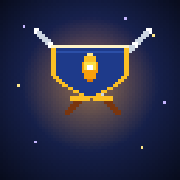
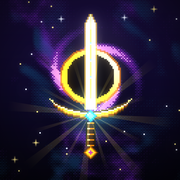
Add files via upload

diff --git a/index.html b/index.html
@@ -11,8 +11,8 @@
   <meta name="apple-mobile-web-app-capable" content="yes" />
   <meta name="apple-mobile-web-app-status-bar-style" content="black-translucent" />
   <meta name="apple-mobile-web-app-title" content="LUMENIA" />
-  <link rel="apple-touch-icon" href="apple-touch-icon.png" />
-  <link rel="icon" type="image/png" sizes="32x32" href="favicon-32.png" />
+  <link rel="apple-touch-icon" href="apple-touch-icon.png?v=2" />
+  <link rel="icon" type="image/png" sizes="32x32" href="favicon-32.png?v=2" />
 
   <!-- Tailwind CSS pour l'interface sombre façon Melvor Idle 2 -->
   <script src="https://cdn.tailwindcss.com"></script>
@@ -17540,8 +17540,12 @@ function wmDraw(ctx, t, opt) {
       const pv = document.getElementById("btn-cr-prev"), nx = document.getElementById("btn-cr-next");
       if (pv) pv.style.visibility = i === 0 ? "hidden" : "visible"; if (nx) nx.classList.toggle("hidden", i === CR_TABS.length - 1);
     }
-    const GAME_VERSION = "1.28";
+    const GAME_VERSION = "1.29";
     const PATCH_NOTES = [
+      { v: "1.29", date: "20/11/2026", titre: "Nouvelle icône", items: [
+        "🗡 Nouvelle icône de l'application : l'Épée de Lumière dressée devant le portail du Néant, en pixel art lumineux.",
+        "📲 Si l'ancienne icône reste affichée sur ton téléphone, désinstalle l'appli puis réinstalle-la depuis le site (ta sauvegarde est conservée)."
+      ] },
       { v: "1.28", date: "20/11/2026", titre: "LUMENIA sur mobile", items: [
         "📲 LUMENIA devient une application mobile : installe-la depuis l'écran titre (« INSTALLER L'APPLI ») ou via « Ajouter à l'écran d'accueil ». Elle se lance en plein écran avec sa propre icône et fonctionne hors ligne.",
         "📱 Interface mobile : nouvelle barre d'onglets en bas (Expédition, Camp, Sac, Héros, Menu), menu complet en tiroir, boutons plus grands, et retour en haut de page à chaque changement d'onglet.",

diff --git a/sw.js b/sw.js
@@ -1,6 +1,6 @@
 /* LUMENIA — service worker : jeu jouable hors ligne, mises à jour automatiques */
-const CACHE = "lumenia-app-v2";
-const CORE = ["./", "./index.html", "./manifest.webmanifest", "./icon-192.png", "./icon-512.png", "./apple-touch-icon.png", "./favicon-32.png"];
+const CACHE = "lumenia-app-v3";
+const CORE = ["./", "./index.html", "./manifest.webmanifest", "./icon-192.png?v=2", "./icon-512.png?v=2", "./apple-touch-icon.png?v=2", "./favicon-32.png?v=2"];
 
 self.addEventListener("install", e => {
   e.waitUntil(caches.open(CACHE).then(c => c.addAll(CORE)).then(() => self.skipWaiting()));
